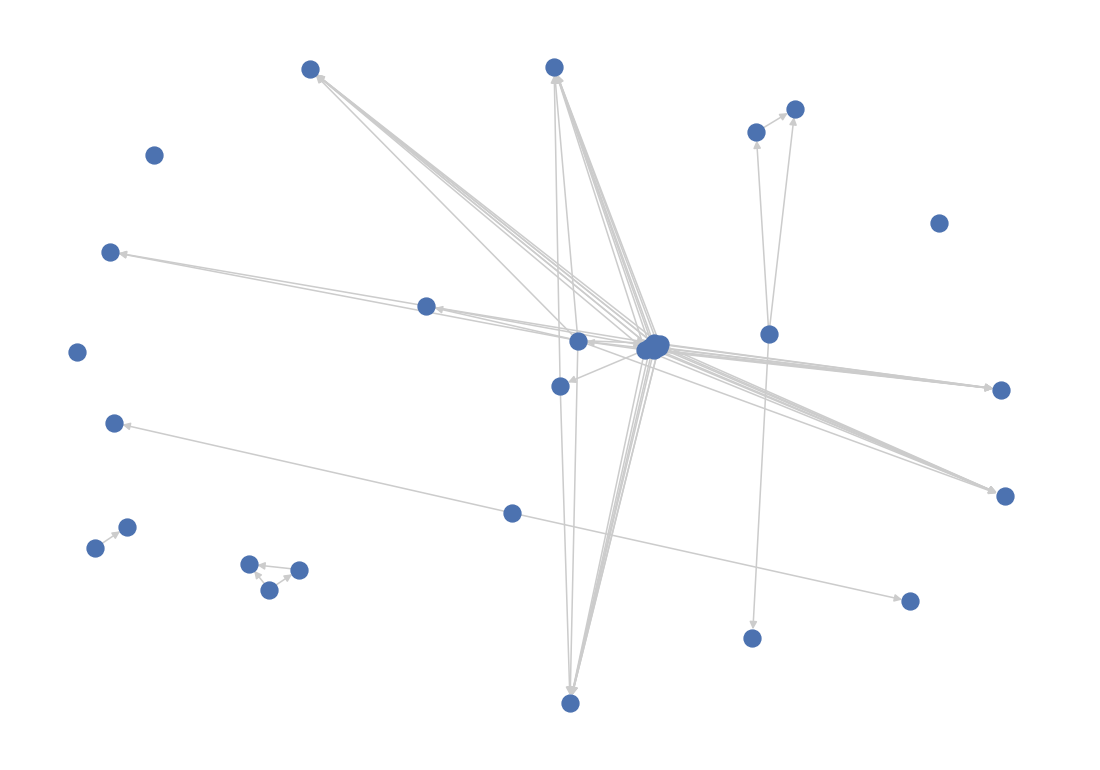
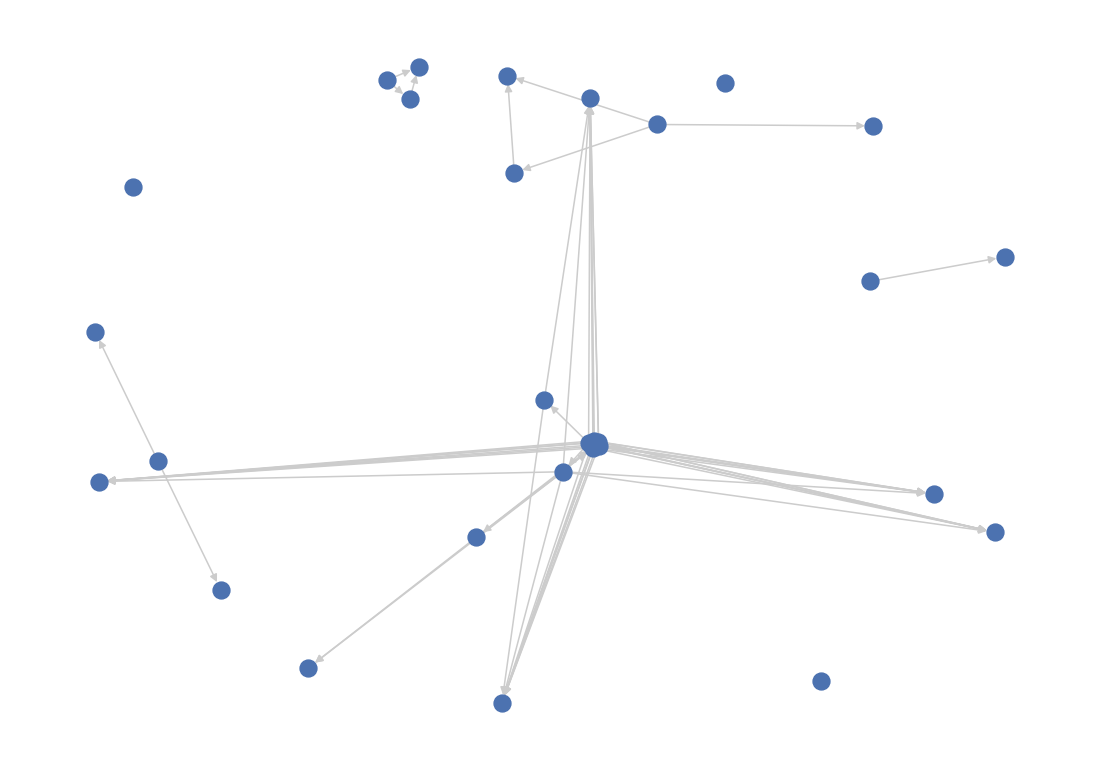
polish: close remaining minor evaluation findings (docs, OBSERVED rung, parallelism scope)
Follow-up to the previous fix commit, covering the minor items left open. Gates stay
green: 930 tests pass, 96.8% branch coverage, ruff 0, files <=150 lines, secrets clean.

- OBSERVED evidence rung: BugHunter now emits OBSERVED findings for healthy hubs, so the
  bottom of the observe->infer->extract->validate ladder is genuinely used (not aspirational).
- Retry contract: corrected retry.py docstring to match the real never-reject behaviour
  (on exhaustion the executor logs and resolves to None; it does not silently "requeue").
- Parallelism (NFR-10): documented that the workload is I/O-bound (gatekeeper egress -> threading
  + semaphore is the correct tool) and CPU-bound graph passes are single-threaded by design on
  small graphs, with multiprocessing as the named extension point.
- PROMPT_BOOK: PB-003..006 marked implemented with file pointers (were stale "planned").
- README: TOC now lists LLM modes + Screenshots; test count synced to 930.
- Notebook ISO/25010 table now reads coverage/modularity/tests-green from committed artifacts
  instead of hand-typed literals.
- Screenshots: added a reproducible `cli_help` generator and refreshed cli_help_after.png so it
  reflects the current --help (incl. the `start` subcommand); gen_screenshots tolerates missing runs/.
- compare_graph_vs_code.py persists its with/without-Graphify result to metrics/out/graph_vs_code.json
  so the secondary study is reproducible to a saved artifact.

diff --git a/scripts/gen_screenshots.py b/scripts/gen_screenshots.py
@@ -41,6 +41,13 @@ def cli_run() -> None:
     _text_image("ArchLens CLI run", body, OUT / "cli_run.png")
 
 
+def cli_help() -> None:
+    """Capture the live `archlens --help` so the documented screenshot never drifts behind the CLI."""
+    out = subprocess.run([sys.executable, str(ROOT / "src" / "main.py"), "--help"],
+                         cwd=ROOT, capture_output=True, text=True)
+    _text_image("ArchLens CLI — archlens --help", out.stdout.strip(), OUT / "cli_help_after.png")
+
+
 def graph_html() -> None:
     data = json.loads(GRAPH.read_text(encoding="utf-8"))
     graph = nx.DiGraph()
@@ -63,8 +70,12 @@ def obsidian_vault() -> None:
 def main() -> int:
     OUT.mkdir(parents=True, exist_ok=True)
     cli_run()
-    graph_html()
-    obsidian_vault()
+    cli_help()
+    for render in (graph_html, obsidian_vault):  # tolerate missing gitignored runs/ artifacts
+        try:
+            render()
+        except (OSError, KeyError, ValueError) as exc:
+            print(f"skipped {render.__name__}: {exc}")
     print("screenshots:", sorted(p.name for p in OUT.glob("*.png")))
     return 0
 

diff --git a/tests/test_bughunter_agent_node.py b/tests/test_bughunter_agent_node.py
@@ -58,3 +58,14 @@ def test_spof_finding_carries_real_citation_confidence_not_a_fixed_0_95():
     findings = make_bughunter_node(_Conf())({"graph_snapshot": {"graph_json": "g.json"}})["findings"]
     spof = next(f for f in findings if f["category"] == "SPOF")
     assert spof["confidence"] == 0.7  # weakest hop of the real citation chain, not hardcoded 0.95
+
+
+def test_healthy_hubs_are_emitted_as_observed_findings():
+    class _Hub(_SDK):
+        def classify_nodes(self, graph):
+            return [SimpleNamespace(node_id="util", verdict="HUB", source_file="util.py")]
+
+    findings = make_bughunter_node(_Hub())({"graph_snapshot": {"graph_json": "g.json"}})["findings"]
+    hub = next(f for f in findings if f["category"] == "hub")
+    assert hub["level"] == "OBSERVED"  # the bottom rung of the evidence ladder is now genuinely used
+    assert not [f for f in findings if f["level"] == "VALIDATED"]  # a healthy hub is not escalated

diff --git a/scripts/compare_graph_vs_code.py b/scripts/compare_graph_vs_code.py
@@ -8,18 +8,24 @@ rates both 1-5. Token counts come from the gatekeeper ledger (the flow's real us
     uv run python scripts/compare_graph_vs_code.py [graph.json] [repo_path] [top_k]
 """
 
+import json
 import sys
+from pathlib import Path
 
 from archlens.sdk.sdk import ArchLensSDK
 
 _GRAPH = sys.argv[1] if len(sys.argv) > 1 else "runs/run/target/graphify-out/graph.json"
 _REPO = sys.argv[2] if len(sys.argv) > 2 else "runs/run/target"
 _TOP_K = int(sys.argv[3]) if len(sys.argv) > 3 else 3
+_ARTIFACT = Path("metrics/out/graph_vs_code.json")  # persist the run so the study is reproducible
 
 
 def _run() -> None:
     report = ArchLensSDK().compare_graph_vs_code(_GRAPH, _REPO, _TOP_K)
-    print(f"evaluated {len(report['rows'])} top bottlenecks (with vs without Graphify)\n")
+    _ARTIFACT.parent.mkdir(parents=True, exist_ok=True)
+    _ARTIFACT.write_text(json.dumps(report, indent=2), encoding="utf-8")
+    print(f"evaluated {len(report['rows'])} top bottlenecks (with vs without Graphify)")
+    print(f"persisted -> {_ARTIFACT}\n")
     for row in report["rows"]:
         print(f"  {row['node']:32}  quality with={row['with_score']}  without={row['without_score']}")
     print("\n--- TOKENS (real, from the gatekeeper ledger) ---")

diff --git a/src/archlens/agents/bughunter_agent.py b/src/archlens/agents/bughunter_agent.py
@@ -61,10 +61,15 @@ def make_bughunter_node(sdk):
             location = spof.citations[0].source_file if spof.citations else spof.node_id
             findings.append(_finding(f"spof-{spof.node_id}", "SPOF", location, "critical_path",
                                      confidence=_spof_confidence(spof)))
-        bottlenecks = [v for v in sdk.classify_nodes(graph) if v.verdict == "BOTTLENECK"]
+        verdicts = sdk.classify_nodes(graph)
+        bottlenecks = [v for v in verdicts if v.verdict == "BOTTLENECK"]
         for verdict in bottlenecks:
             findings.append(_finding(f"god-{verdict.node_id}", "god_node",
                                      verdict.source_file, "betweenness"))
+        for verdict in verdicts:
+            if verdict.verdict != "BOTTLENECK":  # a healthy hub is an OBSERVED fact, not actionable
+                findings.append(_finding(f"hub-{verdict.node_id}", "hub", verdict.source_file,
+                                         "betweenness", level="OBSERVED"))
         if bottlenecks:
             findings.append(_validate_top(sdk, bottlenecks[0], graph))
         return {"findings": findings}

diff --git a/src/archlens/gatekeeper/retry.py b/src/archlens/gatekeeper/retry.py
@@ -1,8 +1,9 @@
 """Retry policy with config-driven backoff over the injectable Clock (tasks 9.023, 9.024).
 
 Transient UpstreamAPIErrors are retried up to max_retries, sleeping retry_after_seconds between
-attempts (virtual time under FakeClock). On exhaustion the request is handed to on_exhausted
-(requeue) so the caller never sees an exception — honouring the never-reject contract.
+attempts (virtual time under FakeClock). On exhaustion the request is handed to on_exhausted,
+which the executor uses to log the failure and resolve the call to None (never raising) —
+honouring the never-reject contract. With no on_exhausted, a RetryExhaustedSignal is raised.
 """
 
 from .errors import RetryExhaustedSignal, UpstreamAPIError

diff --git a/docs/PROMPT_BOOK.md b/docs/PROMPT_BOOK.md
@@ -94,9 +94,9 @@ failed, and how the prompt was refined* (L07, section 11; Guidelines V3).
   added the house-style header block to every SPEC.
 - **Tokens:** not fully measured; per-writer budgets logged in MetricsAgent backlog.
 
-### PB-003 — Per-agent system prompts (planned)
-- **Date:** planned (development phase, after docs approval)
-- **Model:** to be selected per `config/setup.json`; routed via `gatekeeper/gatekeeper.py`
+### PB-003 — Per-agent system prompts (implemented)
+- **Date:** implemented — prompts live in `src/archlens/agents/prompts/{repo,graph,analyst,bughunter,refactor,qa,metrics}.md`
+- **Model:** selected per `config/setup.json`; routed via `gatekeeper/gatekeeper.py`
 - **Context / Goal:** Author and iterate the system prompts for the LangGraph roster:
   - **RepoAgent** — clone/validate the target repo (BugsInPy candidate or lecturer-approved
     simpler repo); refuse to proceed on dirty clone state; uv-managed env only.
@@ -108,13 +108,13 @@ failed, and how the prompt was refined* (L07, section 11; Guidelines V3).
     `relation -> confidence -> source_file`; uncited claims are rejected by the supervisor.
   - **RefactorAgent** — split >150-line modules, break bottlenecks, merge duplicates only when
     similarity >= 0.91 AND validated; always leave tests runnable (QAAgent gate).
-- **Prompt:** to be logged verbatim per agent on first commit of each prompt.
-- **Output Summary / Evaluation / Refinement:** pending; each agent gets its own sub-entry
-  (PB-003a..d) when implemented.
-- **Tokens:** to be recorded by MetricsAgent per invocation.
+- **Prompt:** logged verbatim in the per-agent `*.md` prompt files above (loaded via `prompt_loader.py`).
+- **Output Summary / Evaluation / Refinement:** implemented; see the later Phase-10 entries below and
+  the agent node modules in `src/archlens/agents/`.
+- **Tokens:** recorded by MetricsAgent per invocation (gatekeeper ledger).
 
-### PB-004 — Baseline-vs-assisted measurement prompts (planned)
-- **Date:** planned (after first full Graphify run)
+### PB-004 — Baseline-vs-assisted measurement prompts (implemented)
+- **Date:** implemented (measured live on gpt-4.1-mini; ledgers in `metrics/out/`)
 - **Model:** same model for both arms (controlled comparison)
 - **Context / Goal:** Token-economics proof (Part A/B): one **naive baseline prompt** that
   answers architecture questions from full repository context, vs the **Graphify-assisted
@@ -123,14 +123,13 @@ failed, and how the prompt was refined* (L07, section 11; Guidelines V3).
   (initial graph-scan cost amortization).
 - **Prompt:** identical question set for both arms; assisted arm instructed to read `index.md`
   first, then at most 2-3 wiki pages (Part B navigation rule). To be logged verbatim.
-- **Output Summary / Evaluation:** pending; results feed MetricsAgent cost tables
-  (input/output tokens, $ per model) and the before/after measurement on the 4 knowledge
-  metrics (source traceability, noise reduction, correct-file identification,
-  correct-tool-at-the-right-time).
-- **Tokens:** the entire point — both arms fully measured.
+- **Output Summary / Evaluation:** implemented — 97.08% input-token savings ($0.58 total),
+  recorded in `metrics/out/token_metrics.json` and `docs/metrics/COST_TABLES.md`; the before/after
+  knowledge metrics live in `src/archlens/metrics/knowledge_eval.py`.
+- **Tokens:** the entire point — both arms fully measured (1,368,538 -> 39,950 tokens).
 
-### PB-005 — SKILL.md routing descriptions (planned)
-- **Date:** planned (with the knowledge-assets deliverable)
+### PB-005 — SKILL.md routing descriptions (implemented)
+- **Date:** implemented — see `skills/SKILL_graph_reading.md`, `skills/SKILL_refactor.md`
 - **Model:** Claude (Anthropic)
 - **Context / Goal:** Write the YAML frontmatter `description` fields that make each ArchLens
   SKILL.md discoverable at the right moment ("correct tool at the right time" metric). Each
@@ -139,19 +138,21 @@ failed, and how the prompt was refined* (L07, section 11; Guidelines V3).
   human-only skills set `disable-model-invocation`.
 - **Prompt:** description-writing prompt will be A/B tested: generic description vs
   trigger-phrase-rich description, evaluated by routing accuracy on a fixed task list.
-- **Output Summary / Evaluation / Refinement:** pending.
-- **Tokens:** not yet measured.
+- **Output Summary / Evaluation / Refinement:** implemented — substring trigger routing in
+  `src/archlens/vault/skill_router.py`, guardrail validation in `skill_guardrails.py`.
+- **Tokens:** routing is local (no LLM call); descriptions kept short per the context-budget rule.
 
-### PB-006 — Improvement-loop diff-evaluation prompt (planned)
-- **Date:** planned (improvement-loop implementation)
+### PB-006 — Improvement-loop diff-evaluation prompt (implemented)
+- **Date:** implemented (stop conditions in `src/archlens/agents/stop_evaluator.py` / `stop_eval.py`)
 - **Model:** per `config/setup.json`
 - **Context / Goal:** After each RefactorAgent change and Graphify re-run, a supervisor prompt
   evaluates the metric diff against the Part C (p21) stop conditions: bottleneck node actually
   lost dependencies (not merely moved load), improved modularity (fewer inter-community
   edges), no new isolated components, all unit tests green, Ruff 0 violations; hard cap
   5 iterations. The prompt must force a binary continue/stop decision with cited metrics.
-- **Prompt / Output / Evaluation:** pending; to be logged with the first loop run.
-- **Tokens:** to be recorded by MetricsAgent per iteration.
+- **Prompt / Output / Evaluation:** implemented — the loop applies the 5 stop conditions and a
+  5-iteration hard cap; live runs recorded under `runs/loop_*.log` (all hit the cap, honestly noted).
+- **Tokens:** recorded by MetricsAgent per iteration via the gatekeeper ledger.
 
 ### PB-007 — Phase 1 + Phase 2 implementation session (logged)
 

diff --git a/README.md b/README.md
@@ -13,13 +13,14 @@ Full documentation lives in `docs/` (PRD, PLAN, specialized PRDs, TODO, prompt b
 
 1. [Quickstart (uv only)](#quickstart-uv-only)
 2. [Installation](#installation)
-3. [CLI usage](#cli-usage)
+3. [CLI usage](#cli-usage) — incl. [Screenshots](#screenshots)
 4. [Architecture](#architecture)
 5. [Configuration reference](#configuration-reference)
-6. [Token economics](#token-economics)
-7. [Report](#report)
-8. [Contributing](#contributing)
-9. [License & credits](#license--credits)
+6. [LLM modes (provider-agnostic live API vs offline mock)](#llm-modes-provider-agnostic-live-api-vs-offline-mock)
+7. [Token economics](#token-economics)
+8. [Report](#report)
+9. [Contributing](#contributing)
+10. [License & credits](#license--credits)
 
 ## Quickstart (uv only)
 
@@ -105,7 +106,7 @@ upload, which only the submitter can do). All lecturer-approval gates were grant
 
 ```text
 $ uv run pytest --cov=archlens --cov-branch
-929 passed
+930 passed
 Required test coverage of 85.0% reached. Total coverage: 96.8%
 
 $ uv run ruff check .
@@ -276,7 +277,7 @@ the system temp directory. Full honest log trail: `docs/REPO_SELECTION.md` §3.
 
 ### What is verifiable right now
 
-- `uv run pytest` — 929 tests across the repo module, the Graphify pipeline (models,
+- `uv run pytest` — 930 tests across the repo module, the Graphify pipeline (models,
   validating parser, node-link adapter, diff engine, orchestrator), the graph-analysis
   engine, the Obsidian vault generator (hot.md golden file, broken-link/orphan validation,
   deterministic rebuild), the LangGraph multi-agent orchestration (supervisor + 7 agents +

diff --git a/reports/test_report.md b/reports/test_report.md
@@ -2,7 +2,7 @@
 
 Version: 1.00 | Course: AI Agent Orchestration — HW4 (EX04)
 
-Totals: 929 passed, 0 failed.
+Totals: 930 passed, 0 failed.
 
 | Test | Expected | Status |
 |---|---|---|
@@ -205,6 +205,7 @@ Totals: 929 passed, 0 failed.
 | test_bughunter_reports_spof_and_god_node | - | PASS |
 | test_bughunter_escalates_the_top_bottleneck_to_a_validated_llm_review | - | PASS |
 | test_spof_finding_carries_real_citation_confidence_not_a_fixed_0_95 | - | PASS |
+| test_healthy_hubs_are_emitted_as_observed_findings | - | PASS |
 | test_call_record_has_all_six_fields | - | PASS |
 | test_exactly_one_json_record_emitted | - | PASS |
 | test_api_key_value_is_redacted | - | PASS |

diff --git a/docs/PRD.md b/docs/PRD.md
@@ -188,7 +188,7 @@ Each story includes acceptance criteria (AC). Stories are testable by P-2's AI g
 - **NFR-07 — Secrets policy:** secrets only in `.env` (git-ignored); `.env-example` with dummy values is committed (mandatory). No key, token, or password ever appears in code, config, logs, or docs.
 - **NFR-08 — No hardcoded values:** all tunables via `cfg.get(...)` / `os.environ.get(...)`. Permitted exceptions: `shared/constants.py`, Enums, mathematical/physical constants.
 - **NFR-09 — Local-only execution:** the full pipeline runs on the student's machine; the only outbound traffic is gatekeeper-mediated (LLM API, git clone). No server component, no telemetry.
-- **NFR-10 — Thread safety:** the gatekeeper's concurrency limiter (5 concurrent) and FIFO queue are thread-safe; shared LangGraph state mutations are confined to node boundaries.
+- **NFR-10 — Concurrency model (I/O-bound by design) + thread safety:** ArchLens's parallelism need is **I/O-bound** — the dominant cost is external API / git / subprocess egress through the gatekeeper, so the correct tool is **threading** (a `BoundedSemaphore` caps concurrent in-flight calls; sliding-window counters, the FIFO overflow queue, the token ledger, and the metrics counter are each lock-guarded). The CPU-bound graph computations (centrality, community detection, duplicate scan) run **single-threaded by deliberate choice**: the analyzed graphs are small (httpie ≈ 2k–4k nodes, sub-second NetworkX passes), so a `ProcessPoolExecutor` would add pickling/spawn overhead and Windows fragility for no measurable gain. Multiprocessing is the documented extension point should a target graph ever grow large enough to need it. Shared LangGraph state mutations are confined to node boundaries.
 - **NFR-11 — DRY thresholds:** same function in 2+ files → extract to shared module; same try/except pattern in 3+ files → wrapper; same method in 3+ classes → base class or mixin.
 - **NFR-12 — Versioning:** component versions live in `shared/version.py` and start at 1.00.
 - **NFR-13 — Repository layout:** exactly per Guidelines V3 — `src/archlens/{sdk/, gatekeeper/, agents/, graphops/, vault/, metrics/, shared/}`, `src/main.py`, `config/{setup.json, rate_limits.json, logging_config.json}`, `tests/` with `conftest.py`, `docs/`.